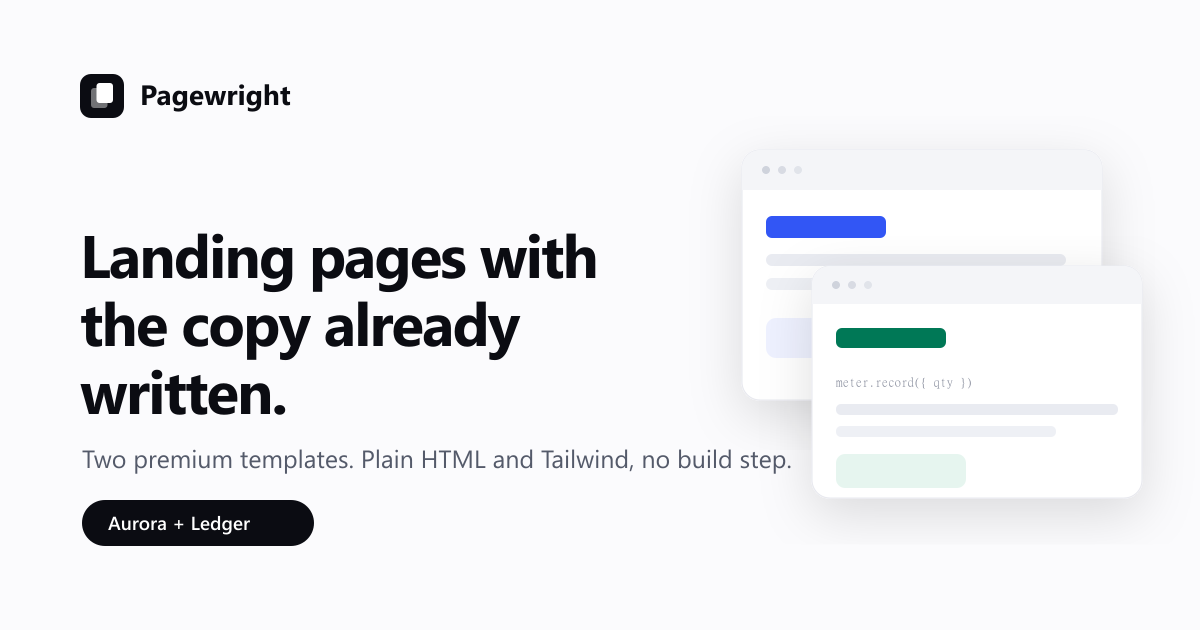
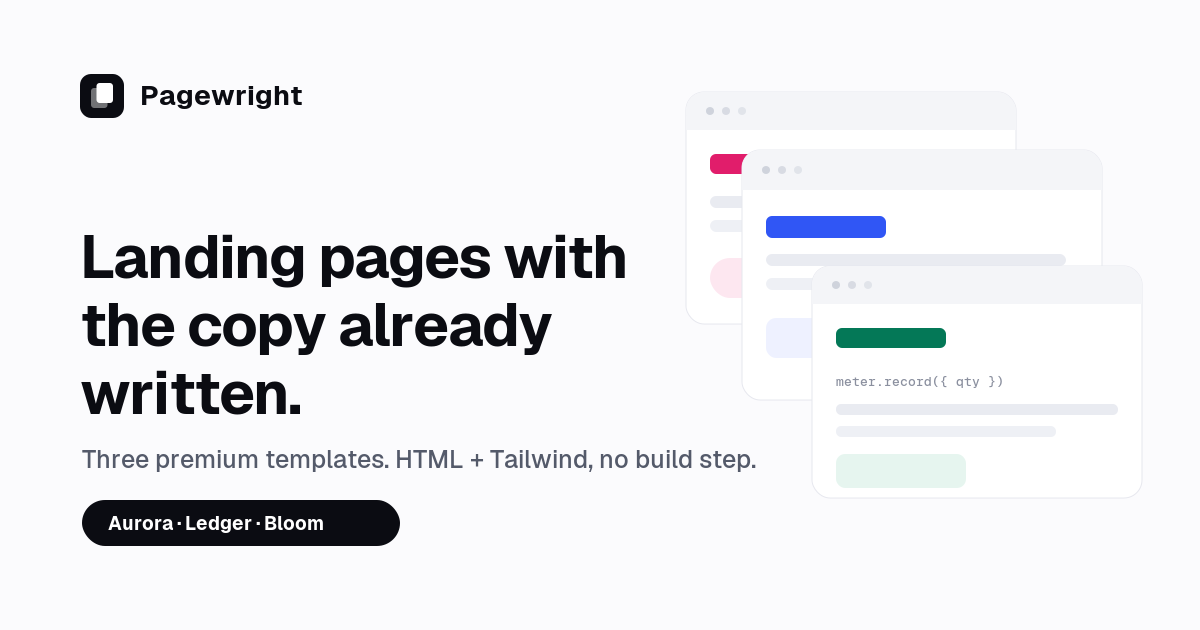
Wire buy buttons to Gumroad store; fix 'two'->'three' templates copy and OG image

diff --git a/index.html b/index.html
@@ -11,7 +11,7 @@
   <!-- ============================================================= -->
 
   <title>Pagewright: conversion-engineered landing page templates, copy included</title>
-  <meta name="description" content="Two premium landing page templates with the conversion structure and the copywriting already written. Plain HTML and Tailwind, no build step. Ship a page that looks funded, in about an hour." />
+  <meta name="description" content="Three premium landing page templates with the conversion structure and the copywriting already written. Plain HTML and Tailwind, no build step. Ship a page that looks funded, in about an hour." />
   <link rel="canonical" href="https://leonbede7.github.io/pagewright/" />
 
   <meta name="theme-color" content="#fbfbfd" media="(prefers-color-scheme: light)" />
@@ -40,7 +40,7 @@
     "@context": "https://schema.org",
     "@type": "Product",
     "name": "Pagewright Pro",
-    "description": "Two conversion-engineered landing page templates with the structure and copywriting already written. Plain HTML and Tailwind, no build step.",
+    "description": "Three conversion-engineered landing page templates with the structure and copywriting already written. Plain HTML and Tailwind, no build step.",
     "brand": { "@type": "Brand", "name": "Pagewright" },
     "url": "https://leonbede7.github.io/pagewright/",
     "image": "https://leonbede7.github.io/pagewright/assets/img/og.png",
@@ -49,7 +49,7 @@
       "price": "29",
       "priceCurrency": "USD",
       "availability": "https://schema.org/InStock",
-      "url": "https://leonbede7.github.io/pagewright/#pricing"
+      "url": "https://leonbede.gumroad.com/l/pagewright-pro"
     }
   }
   </script>
@@ -139,7 +139,7 @@
           </div>
         </div>
 
-        <!-- Two template previews in browser frames, overlapping -->
+        <!-- Three template previews in browser frames, overlapping -->
         <div class="reveal reveal-d2 relative">
           <div class="overflow-hidden rounded-2xl border border-line bg-card shadow-lift">
             <div class="flex items-center gap-2 border-b border-line bg-panel px-4 py-2.5">
@@ -291,8 +291,8 @@
                 <span class="mb-1 text-lg text-faint line-through">$39</span>
               </div>
               <p class="mt-1 text-xs text-muted">Launch price for the first two weeks. About 27 EUR.</p>
-              <!-- BUY LINK: replace href with your Gumroad / Lemon Squeezy product URL -->
-              <a href="#" class="mt-6 inline-flex w-full items-center justify-center gap-2 rounded-full bg-brand px-5 py-3 text-sm font-semibold text-on-brand shadow-soft transition hover:opacity-90 active:scale-[0.98]">
+              <!-- BUY LINK: Gumroad product -->
+              <a href="https://leonbede.gumroad.com/l/pagewright-pro" class="mt-6 inline-flex w-full items-center justify-center gap-2 rounded-full bg-brand px-5 py-3 text-sm font-semibold text-on-brand shadow-soft transition hover:opacity-90 active:scale-[0.98]">
                 Get Pagewright
                 <svg viewBox="0 0 24 24" class="h-4 w-4" fill="none" stroke="currentColor" stroke-width="2" stroke-linecap="round" stroke-linejoin="round"><path d="M5 12h14M13 6l6 6-6 6"/></svg>
               </a>
@@ -311,7 +311,7 @@
           </div>
         </div>
 
-        <p class="reveal mt-6 text-center text-sm text-muted">Want to try the build quality first? <a href="#" class="font-medium text-ink underline-offset-4 hover:underline">Pagewright Lite</a> is one template, free.</p>
+        <p class="reveal mt-6 text-center text-sm text-muted">Want to try the build quality first? <a href="lite/" class="font-medium text-ink underline-offset-4 hover:underline">Pagewright Lite</a> is one template, free.</p>
       </div>
     </section>
 
@@ -353,10 +353,10 @@
     <section class="px-5 pb-20 sm:px-6 md:pb-28">
       <div class="reveal relative mx-auto max-w-5xl overflow-hidden rounded-3xl border border-line bg-card p-10 text-center shadow-lift sm:p-14">
         <h2 class="mx-auto max-w-2xl text-3xl font-semibold tracking-tight sm:text-4xl">Ship the page tonight.</h2>
-        <p class="mx-auto mt-4 max-w-xl text-lg text-muted">Stop staring at a blank hero. Get two pages that are built to convert, with the words already written.</p>
+        <p class="mx-auto mt-4 max-w-xl text-lg text-muted">Stop staring at a blank hero. Get three pages that are built to convert, with the words already written.</p>
         <div class="mt-8 flex flex-wrap items-center justify-center gap-3">
-          <!-- BUY LINK: replace href with your Gumroad / Lemon Squeezy product URL -->
-          <a href="#" class="inline-flex items-center gap-2 rounded-full bg-brand px-7 py-3 text-sm font-semibold text-on-brand shadow-soft transition hover:opacity-90 active:scale-[0.98]">
+          <!-- BUY LINK: Gumroad product -->
+          <a href="https://leonbede.gumroad.com/l/pagewright-pro" class="inline-flex items-center gap-2 rounded-full bg-brand px-7 py-3 text-sm font-semibold text-on-brand shadow-soft transition hover:opacity-90 active:scale-[0.98]">
             Get Pagewright
             <svg viewBox="0 0 24 24" class="h-4 w-4" fill="none" stroke="currentColor" stroke-width="2" stroke-linecap="round" stroke-linejoin="round"><path d="M5 12h14M13 6l6 6-6 6"/></svg>
           </a>
@@ -385,5 +385,4 @@
   </footer>
 
   <script src="assets/js/app.js" defer></script>
-</body>
-</html>
+</body

diff --git a/guide/index.html b/guide/index.html
@@ -163,7 +163,7 @@
       <!-- CTA card -->
       <div class="mt-14 rounded-2xl border border-line bg-card p-8 shadow-soft">
         <h2 class="text-2xl font-semibold tracking-tight">Or skip the blank page.</h2>
-        <p class="mt-3 text-muted">Pagewright is two landing page templates with this whole structure built in and the copy already written, annotated section by section so you can make it yours without breaking what converts. Plain HTML and Tailwind, no build step.</p>
+        <p class="mt-3 text-muted">Pagewright is three landing page templates with this whole structure built in and the copy already written, annotated section by section so you can make it yours without breaking what converts. Plain HTML and Tailwind, no build step.</p>
         <div class="mt-6 flex flex-wrap items-center gap-3">
           <a href="../#pricing" class="inline-flex items-center gap-2 rounded-full bg-brand px-6 py-3 text-sm font-semibold text-on-brand shadow-soft transition hover:opacity-90 active:scale-[0.98]">
             Get Pagewright

diff --git a/landing-page-mistakes/index.html b/landing-page-mistakes/index.html
@@ -124,7 +124,7 @@
 
       <div class="mt-14 rounded-2xl border border-line bg-card p-8 shadow-soft">
         <h2 class="text-2xl font-semibold tracking-tight">Get a page that avoids all seven.</h2>
-        <p class="mt-3 text-muted">Pagewright is two landing page templates with the right structure and the copy already written, annotated so you understand why each part is there. Plain HTML and Tailwind, no build step.</p>
+        <p class="mt-3 text-muted">Pagewright is three landing page templates with the right structure and the copy already written, annotated so you understand why each part is there. Plain HTML and Tailwind, no build step.</p>
         <div class="mt-6 flex flex-wrap items-center gap-3">
           <a href="../#pricing" class="inline-flex items-center gap-2 rounded-full bg-brand px-6 py-3 text-sm font-semibold text-on-brand shadow-soft transition hover:opacity-90 active:scale-[0.98]">
             Get Pagewright